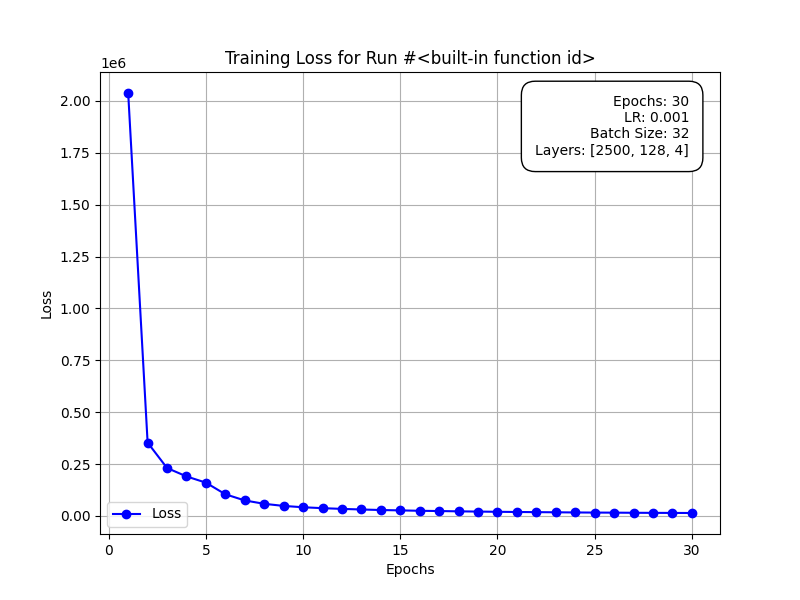
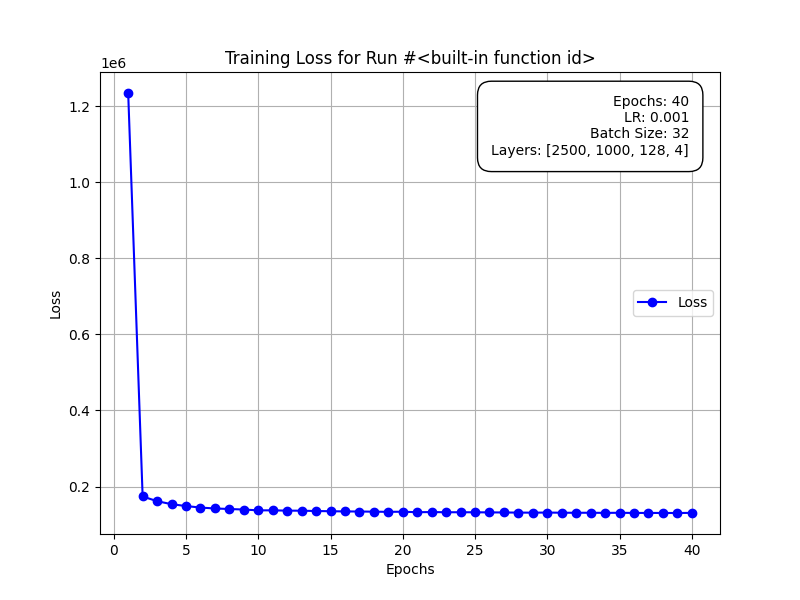
10-7

diff --git a/src/model/model_run.py b/src/model/model_run.py
@@ -1,0 +1,49 @@
+import torch
+from torchvision import transforms
+from PIL import Image
+import numpy as np
+from model import SimpleModel
+from src.utils.fileName_to_params import file_name_to_params
+
+#---- Load Model ----
+layers = [2500,500,128,4]
+model = SimpleModel(layers)
+
+model_num = input("enter model number: ")
+state_dict = torch.load('models/model_run'+model_num+'.pt')
+model.load_state_dict(state_dict)
+model.eval()
+
+# ---  Load and Prepare Image from TXT ---
+def load_txt_image(path):
+    with open(path, 'r') as f:
+        values = []
+        for line in f:
+            line = line.strip().replace('D', 'E').replace('d', 'E')
+            values.append(float(line))
+        if len(values) != 2500:
+            raise ValueError(f"Expected 2500 pixel values, got {len(values)}")
+    image = np.array(values, dtype=np.float32).reshape((50, 50))
+    image = torch.from_numpy(image).unsqueeze(0)  # Shape: [1, 50, 50] — 1 channel
+    return image.unsqueeze(0)
+
+transform = transforms.Compose([
+    transforms.Resize((50, 50)),          # Ensure size is correct
+    transforms.ToTensor(),                # Converts to [C, H, W] format
+    # transforms.Normalize(mean, std),    # Uncomment if your model was trained with normalization
+])
+
+
+# Apply transform
+input_tensor = load_txt_image("../../Data/results/Refindx1.095/0450015007001b.f06")  # Add batch dimension: [1, C, 50, 50]
+
+#---- Run Model
+with torch.no_grad():  # Disable gradient tracking
+    output = model(input_tensor)
+    result = output.squeeze().tolist()  # Convert from tensor to list of 4 numbers
+
+
+print("Model"+ model_num +" output:", result)
+
+v = file_name_to_params("0450015007001")
+print("\n\nDiameter (d)-->"+str(v[0])+"\nThickness (t)-->"+str(v[1])+"\nThickness (n_decimal)-->"+str(v[2])+"\n")

diff --git a/src/utils/img_compare.py b/src/utils/img_compare.py
@@ -1,0 +1,34 @@
+from PIL import Image
+import numpy as np
+from Data.DB_setup.image_db_utils import ImageDB
+
+def compare_images(image_data1, image_data2, use_log):
+    if not image_data1:
+        print(" No image data found.")
+        return
+    if not image_data2:
+        print(" No image data found.")
+        return
+
+    img1_txt = image_data1['log_image'] if use_log else image_data1['regular_image']
+    img2_txt = image_data2['log_image'] if use_log else image_data2['regular_image']
+
+    img1 =[float(line.replace('D', 'E')) for line in img1_txt.strip().splitlines()]
+    img2= [float(line.replace('D', 'E')) for line in img2_txt.strip().splitlines()]
+
+    if len(img1)!=2500 or len(img2) != 2500:
+        raise ValueError("expected 2500 values")
+    img1 = np.array(img1)
+    img2 = np.array(img2)
+
+    diff =(img1 - img2) * 100
+    diff_img = Image.fromarray(diff)
+    diff_img.show()
+
+# === Example usage ===
+if __name__ == '__main__':
+    db = ImageDB()
+    compare_images(db.search_image_by_all_dtr(7000,2250,600,45),db.search_image_by_all_dtr(7000,2250,600,100),0)
+
+
+

diff --git a/Data/DB_setup/image_db_utils.py b/Data/DB_setup/image_db_utils.py
@@ -30,3 +30,12 @@ class ImageDB:
         """
         self.cursor.execute(query, (diameter, thickness, ratio))
         return self.cursor.fetchone()
+
+    def search_image_by_all_dtr(self, diameter, thickness, ratio,ref_index):
+        query = """
+            SELECT * FROM ImageData 
+            WHERE diameter = %s AND thickness = %s AND ratio = %s AND ref_index = %s
+            LIMIT 1
+        """
+        self.cursor.execute(query, (diameter, thickness, ratio, ref_index))
+        return self.cursor.fetchone()

diff --git a/src/utils/fileName_to_params.py b/src/utils/fileName_to_params.py
@@ -1,0 +1,13 @@
+def file_name_to_params(file_name):
+    d_str = file_name[0:5]
+    t_str = file_name[5:9]
+    n_decimal_str = file_name[9:12]
+
+    # Convert strings to numbers
+    d = int(d_str)
+    t = int(t_str)
+    n_decimal = int(n_decimal_str)
+    return d, t, n_decimal
+
+
+

diff --git a/src/utils/show_image.py b/src/utils/show_image.py
@@ -5,7 +5,7 @@ from fontTools.unicodedata import block
 from Data.DB_setup.image_db_utils import ImageDB
 
 
-def display_image(image_data, use_log=False):
+def display_image(image_data, use_log=True):
     if not image_data:
         print(" No image data found.")
         return

diff --git a/src/model/main.py b/src/model/main.py
@@ -40,7 +40,7 @@ def default_run(lr,bs,l,ne):
 if __name__ == "__main__":
     os.makedirs("comp_graphs", exist_ok=True)
 
-    default_run(0.001,32,[2500,128,4],30)
+    default_run(0.001,32,[2500,1000,128,4],40)
 
 
 
